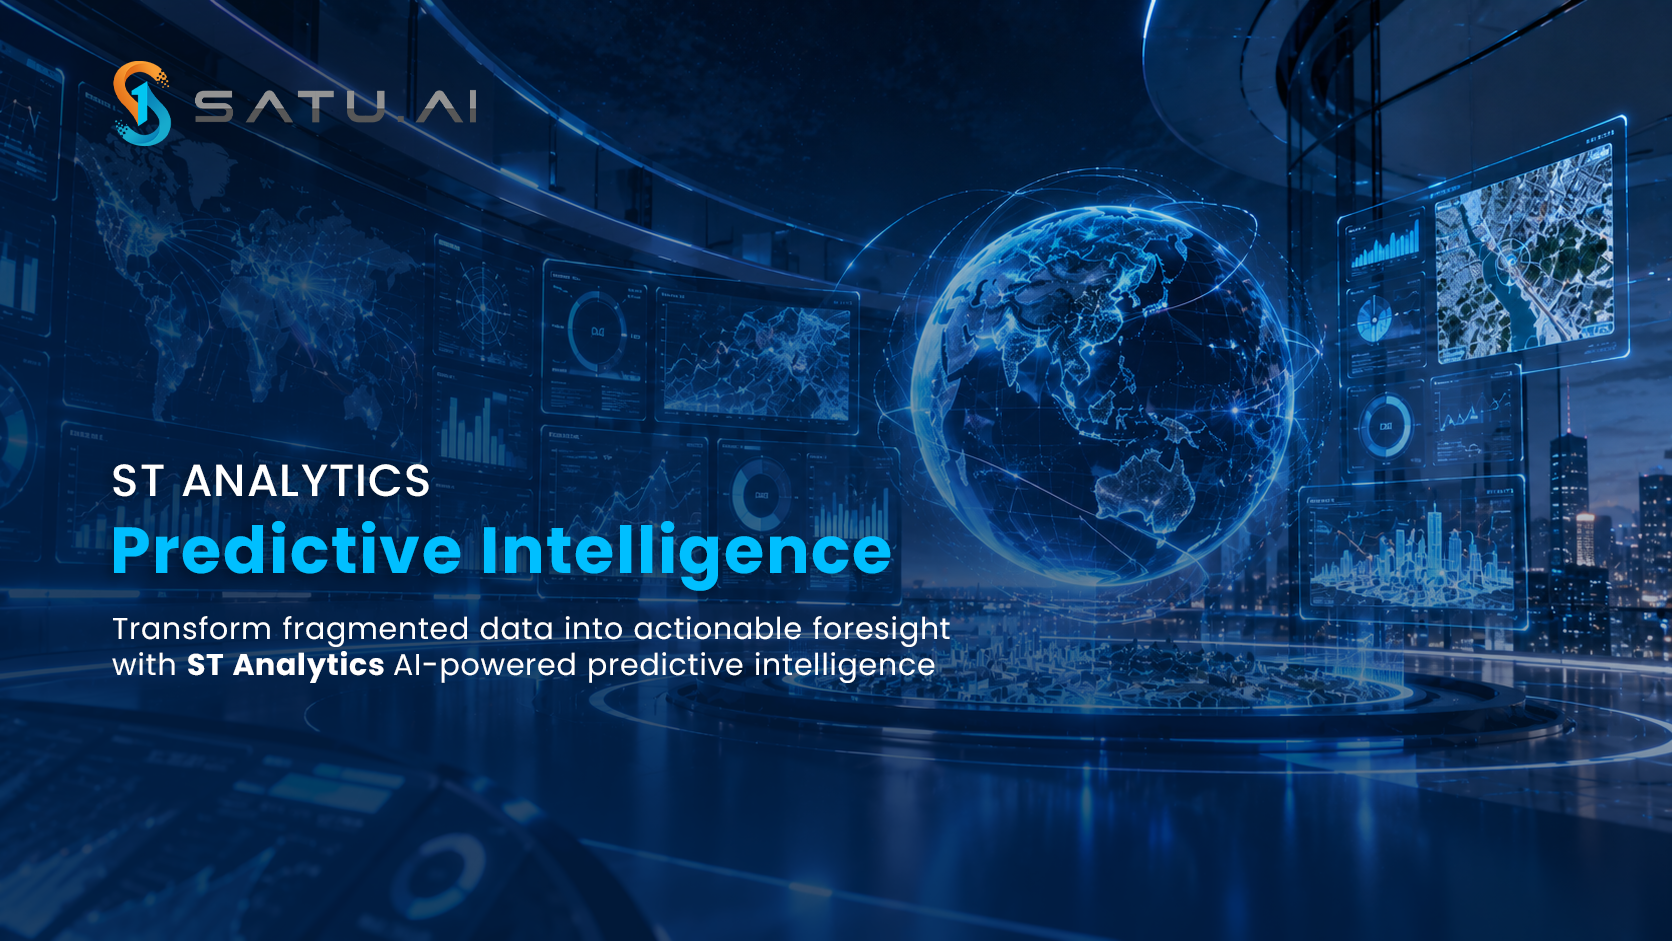
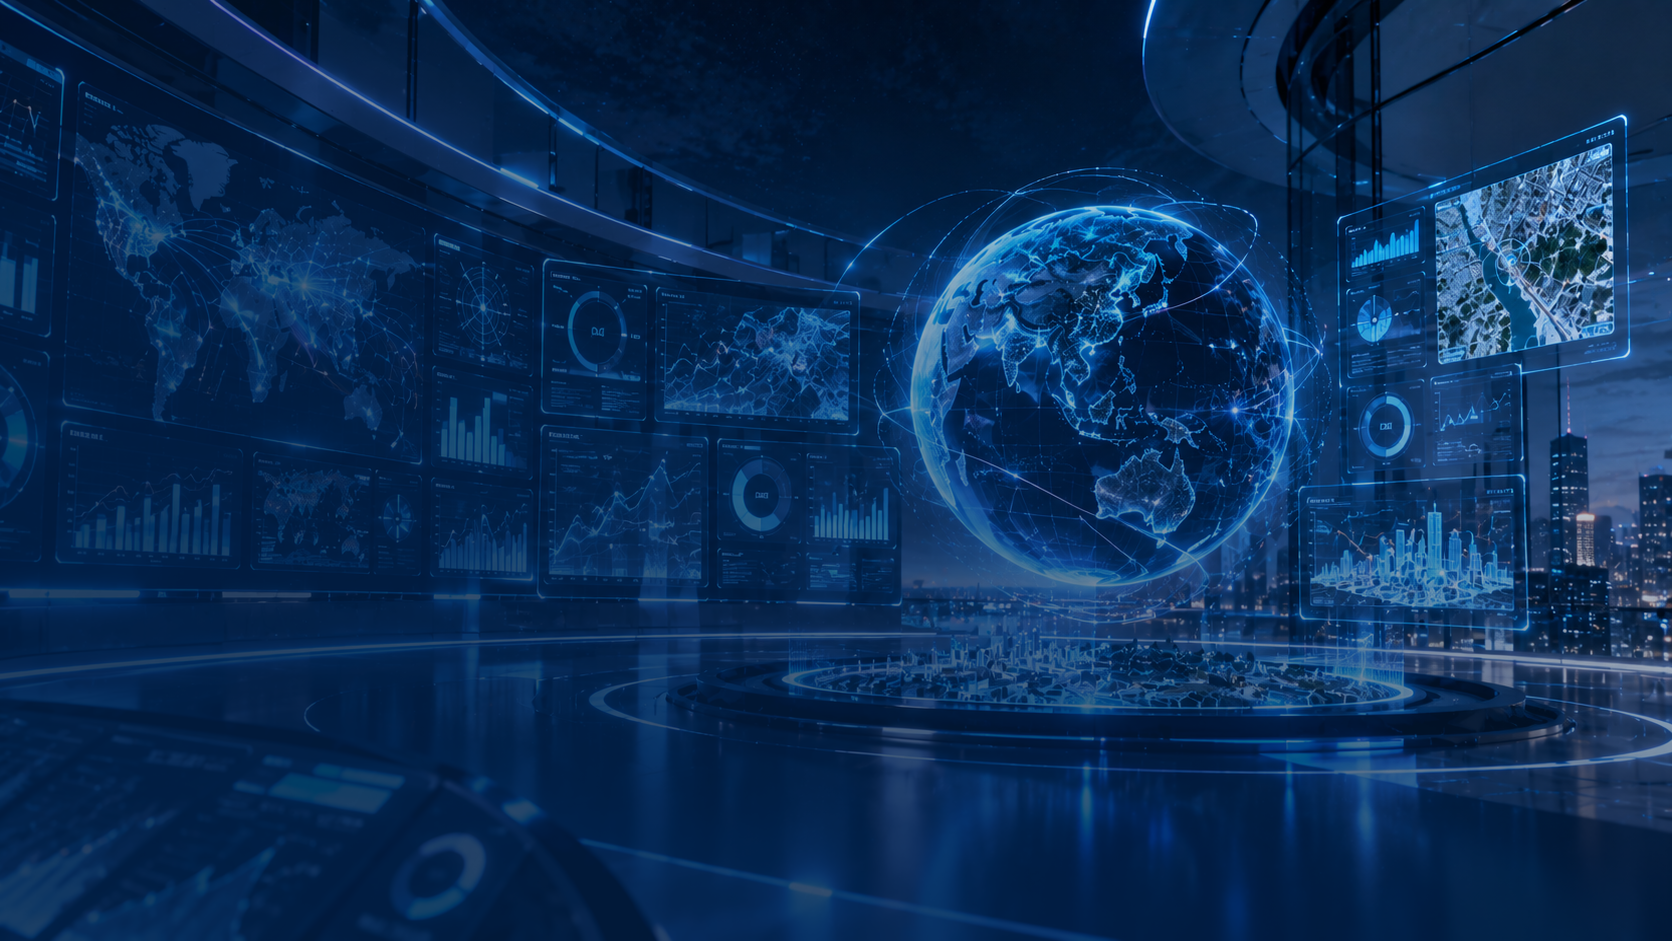
Hero v2: plain client images + responsive CMS text; fix prism first-slide visibility
Hero:
- Swap the baked-text hero images for the client's plain (text-free)
  backgrounds, so images can crop freely on any viewport.
- Headline/eyebrow/description now live in hero_slides (new eyebrow +
  deskripsi columns) and render as a flowing left column (eyebrow →
  headline → paragraph → button) — no overlap with the CTA, no clipped
  text, clean on mobile. Wired into anima.js slide controller + admin
  Hero editor (per-slide eyebrow/headline/description fields).

Prism (Home cubic Solutions):
- The caption group faded in only at scroll p>0.40, but slide 0
  (Modernize Infrastructure) peaked at p~0.34-0.42, so it was nearly
  invisible and appeared to start at Cybersecurity. Move the caption
  gate earlier (p>0.30) and align the assemble window so Modernize is
  fully visible and holds before advancing.

Migration: database/migration_hero_v2.sql (adds columns + 9 slides).
Hero block removed from migration_home_client_images.sql (superseded).

Claude-Session: https://claude.ai/code/session_01NvipGABRoDf3dBPB4Xo28Q

diff --git a/themes/anima/assets/css/anima.css b/themes/anima/assets/css/anima.css
@@ -505,13 +505,18 @@ body{background:#fff}
 /* Main panel: dominant left slide with ONE clean diagonal on its right edge. */
 .tk-cur{position:absolute;left:0;top:0;bottom:0;width:70.5%;border-radius:30px 30px 0 30px;overflow:hidden;clip-path:polygon(0 0,100% 0,91% 100%,0 100%);box-shadow:0 26px 60px rgba(30,80,170,.12);z-index:1}
 .tk-cur .tk-bg{position:absolute;inset:0;background-size:cover;background-position:center;transition:opacity .72s cubic-bezier(.16,1,.3,1),transform .82s cubic-bezier(.16,1,.3,1)}
-.tk-ov{position:absolute;inset:0;background:linear-gradient(115deg,rgba(26,86,190,.62),rgba(20,60,150,.4) 55%,rgba(40,110,220,.30))}
-.tk-h1{position:absolute;left:46px;bottom:118px;z-index:3;color:#fff;font-weight:800;line-height:1.02;margin:0;font-size:clamp(30px,3.6vw,52px);max-width:58%;letter-spacing:-.01em;transition:opacity .35s}
-.tk-eyebrow{display:none}
-/* Hero images ship with baked-in text: collapse empty overlay/below headings so no blank gap shows. */
+.tk-ov{position:absolute;inset:0;background:linear-gradient(90deg,rgba(6,22,52,.80) 0%,rgba(8,26,60,.56) 30%,rgba(12,40,92,.24) 58%,rgba(20,60,140,.06) 100%)}
+/* Hero copy: one flowing left column (eyebrow → headline → paragraph → button)
+   so text never overlaps the button and never gets clipped by the frame. */
+.tk-copy{position:absolute;left:clamp(24px,4vw,52px);right:11%;bottom:clamp(28px,5vh,52px);z-index:3;display:flex;flex-direction:column;align-items:flex-start;gap:13px;max-width:min(600px,62%)}
+.tk-eyebrow{display:block;margin:0;color:#dfeaff;font-weight:600;font-size:clamp(11px,1vw,14px);letter-spacing:.16em;text-transform:uppercase;opacity:.96;text-shadow:0 1px 8px rgba(6,20,50,.55)}
+.tk-eyebrow[hidden]{display:none}
+.tk-h1{margin:0;color:#fff;font-weight:800;line-height:1.05;font-size:clamp(26px,3.3vw,48px);letter-spacing:-.01em;text-shadow:0 2px 16px rgba(6,20,50,.5);transition:opacity .35s}
 .tk-h1:empty,.tk-h1[hidden]{display:none}
+.tk-desc{margin:0;color:#eaf1ff;font-size:clamp(13px,1.1vw,16.5px);line-height:1.5;max-width:42ch;opacity:.94;text-shadow:0 1px 10px rgba(6,20,50,.5)}
+.tk-desc:empty,.tk-desc[hidden]{display:none}
 .tk-below-l .tk-sub:has(#tkSub:empty),.tk-below-l .tk-sub .blue:empty{display:none}
-.tk-foot{position:absolute;left:46px;bottom:44px;z-index:3;display:flex;align-items:center;gap:26px}
+.tk-foot{margin-top:6px;display:flex;align-items:center;gap:24px;flex-wrap:wrap}
 .tk-btn{background:#2f7be0;color:#fff;padding:13px 24px;border-radius:30px;font-weight:600;font-size:15px;display:inline-flex;align-items:center;gap:9px;box-shadow:0 10px 26px rgba(47,123,224,.32);transition:.2s}
 .tk-btn:hover{background:#1b63c7;transform:translateY(-2px)}
 .tk-btn svg{width:16px;height:16px;stroke:#fff;fill:none;stroke-width:2}
@@ -532,7 +537,9 @@ body{background:#fff}
 .tk-arrow:hover{border-color:#2478e0;background:#fff}.tk-arrow svg{width:18px;height:18px;stroke:#6e7f98;stroke-width:2.2;fill:none;stroke-linecap:round;stroke-linejoin:round;transition:stroke .2s}.tk-arrow:hover svg{stroke:#2478e0}
 
 .tk-below{display:grid;grid-template-columns:1.25fr 1fr;gap:44px;margin-top:26px;align-items:start}.tk-sub{font-size:clamp(30px,3.7vw,54px);font-weight:800;color:#2f7be0;margin:0;line-height:1;letter-spacing:-.01em}.tk-below-l p{margin-top:16px;color:#5a6a82;font-size:15.5px;line-height:1.7;max-width:560px}.tk-below-l p b{color:#1e2b45}.tk-disc-h{color:#2f7be0;font-weight:700;font-size:16px;margin-bottom:12px}.tk-disc-grid{display:grid;grid-template-columns:1fr 1fr;gap:0 44px}.tk-disc-grid a{display:flex;justify-content:space-between;align-items:center;gap:10px;padding:12px 2px;border-bottom:1.5px solid #e6edf7;color:#1e2b45;font-size:14px;font-weight:500;transition:.2s}.tk-disc-grid a:hover{color:#2f7be0;padding-left:4px}.tk-disc-grid a i{color:#2f7be0;font-style:normal;font-weight:700}
-@media(max-width:900px){.tk-below{grid-template-columns:1fr}.tk-next{display:none}.tk-cur{width:100%;clip-path:none}.tk-arrows{left:auto;right:20px;width:140px;height:92px;border-radius:22px 22px 0 0}.tk-arrow{width:46px;height:48px}}
+@media(max-width:900px){.tk-below{grid-template-columns:1fr}.tk-next{display:none}.tk-cur{width:100%;clip-path:none;border-radius:26px}.tk-arrows{left:auto;right:20px;width:140px;height:92px;border-radius:22px 22px 0 0}.tk-arrow{width:46px;height:48px}
+  .tk-stage{height:auto;min-height:60vh}.tk-copy{right:6%;max-width:none;left:22px;bottom:24px;gap:11px}}
+@media(max-width:560px){.tk-stage{min-height:64vh}.tk-copy{left:18px;right:5%;bottom:20px}.tk-desc{max-width:none}.tk-foot{gap:16px}}
 
 /* ===== testi light head overrides ===== */
 .testi-head h2{color:var(--ink)}

diff --git a/themes/anima/assets/js/anima.js b/themes/anima/assets/js/anima.js
@@ -212,7 +212,7 @@ let sp=0;
 function frame(){
   const r=prism.getBoundingClientRect();const total=prism.offsetHeight-innerHeight;
   const p=clamp(-r.top/total);
-  const shrink=clamp(p/0.42), assemble=clamp((p-0.34)/0.60);
+  const shrink=clamp(p/0.42), assemble=clamp((p-0.30)/0.62);
   const t=performance.now()*0.001;const idle=Math.sin(t*0.5)*0.03;
   hint.style.opacity=(1-clamp(p/0.05)).toFixed(2);
 
@@ -234,8 +234,8 @@ function frame(){
     g.rotation.y=front.rotation.y*0.9;g.rotation.x=front.rotation.x;g.scale.setScalar(1);});
 
   // captions
-  const capA=clamp((p-0.40)/0.05);
-  caps.forEach((c,i)=>{const d=(1-Math.min(1,Math.abs(phase-i)/0.55))*capA;c.style.opacity=clamp(d).toFixed(2);
+  const capA=clamp((p-0.30)/0.05);
+  caps.forEach((c,i)=>{const d=(1-Math.min(1,Math.abs(phase-i)/0.60))*capA;c.style.opacity=clamp(d).toFixed(2);
     c.style.transform=`translateY(${(1-clamp(d))*14}px)`;});
   const active=Math.round(phase);
   dots.forEach((d,i)=>d.classList.toggle('on',i===active&&capA>0.5));
@@ -303,6 +303,9 @@ requestAnimationFrame(frame);
    {bg:'',h:'Data-driven',sub:'Intelligence'}
   ];})();
   var curBg=document.getElementById('tkCurBg'),nextBg=document.getElementById('tkNextBg'),h1=document.getElementById('tkH1'),sub=document.getElementById('tkSub'),dotsEl=document.getElementById('tkDots');
+  var eye=document.getElementById('tkEye'),desc=document.getElementById('tkDesc');
+  function setTxt(el,t){if(!el)return;t=t||'';el.textContent=t;if(el.hasAttribute('hidden'))el.removeAttribute('hidden');el.style.display=t?'':'none';}
+  function copyFade(o){[eye,h1,desc].forEach(function(x){if(x)x.style.transition='opacity .35s';if(x)x.style.opacity=o;});}
   if(!curBg||!nextBg)return;
   var i=0,N=S.length,timer,busy=false;
   S.forEach(function(s,k){var d=document.createElement('i');if(k===0)d.className='on';d.onclick=function(){go(k,k>i?'next':'prev');};dotsEl.appendChild(d);});
@@ -331,13 +334,13 @@ requestAnimationFrame(frame);
     nextBg.style.transition='opacity .48s cubic-bezier(.16,1,.3,1),transform .72s cubic-bezier(.16,1,.3,1)';
     curBg.style.opacity='0';curBg.style.transform='translateX('+outX+'%) scale(1.012)';
     nextBg.style.opacity='0.42';nextBg.style.transform='translateX('+(-outX)+'%) scale(1.012)';
-    h1.style.opacity='0';
+    copyFade('0');
     setTimeout(function(){
-      i=n;setMedia(curBg,S[i]);setMedia(nextBg,S[(i+1)%N]);h1.textContent=S[i].h;sub.textContent=S[i].sub;
+      i=n;setMedia(curBg,S[i]);setMedia(nextBg,S[(i+1)%N]);setTxt(eye,S[i].eye);setTxt(h1,S[i].h);setTxt(desc,S[i].desc);if(sub)sub.textContent=S[i].sub||'';
       curBg.style.transition='none';nextBg.style.transition='none';curBg.style.transform='translateX('+inX+'%) scale(1.012)';nextBg.style.transform='translateX('+(-inX)+'%) scale(1.012)';
       void curBg.offsetWidth;
       curBg.style.transition='opacity .72s cubic-bezier(.16,1,.3,1),transform .82s cubic-bezier(.16,1,.3,1)';nextBg.style.transition='opacity .72s cubic-bezier(.16,1,.3,1),transform .82s cubic-bezier(.16,1,.3,1)';
-      curBg.style.opacity='1';nextBg.style.opacity='1';curBg.style.transform='translateX(0) scale(1)';nextBg.style.transform='translateX(0) scale(1)';h1.style.opacity='1';
+      curBg.style.opacity='1';nextBg.style.opacity='1';curBg.style.transform='translateX(0) scale(1)';nextBg.style.transform='translateX(0) scale(1)';copyFade('1');
       dots.forEach(function(d,k){d.classList.toggle('on',k===i);});busy=false;
     },480);
   }

diff --git a/admin/views/pengaturan/index.php b/admin/views/pengaturan/index.php
@@ -106,12 +106,16 @@ if ($_SERVER['REQUEST_METHOD'] === 'POST') {
     if ($a === 'hero') {
         $slide_judul = $_POST['slide_judul'] ?? [];
         $slide_sub   = $_POST['slide_sub'] ?? [];
+        $slide_eyebrow = $_POST['slide_eyebrow'] ?? [];
+        $slide_desc  = $_POST['slide_desc'] ?? [];
         $slide_ids   = $_POST['slide_id'] ?? [];
         // Clear and re-insert
         foreach ($slide_judul as $si => $sj) {
-            if (!trim($sj)) continue;
+            if (!trim($sj) && !trim($slide_eyebrow[$si] ?? '')) continue;
             $sid = (int)($slide_ids[$si] ?? 0);
-            $sdata = ['judul'=>trim($sj),'subtitle'=>trim($slide_sub[$si]??''),'urutan'=>$si,'is_active'=>1];
+            $sdata = ['judul'=>trim($sj),'subtitle'=>trim($slide_sub[$si]??''),
+                      'eyebrow'=>trim($slide_eyebrow[$si]??''),'deskripsi'=>trim($slide_desc[$si]??''),
+                      'urutan'=>$si,'is_active'=>1];
             // Upload slide image
             if (!empty($_FILES['slide_gambar']['name'][$si])) {
                 $sfdata = ['name'=>$_FILES['slide_gambar']['name'][$si],'type'=>$_FILES['slide_gambar']['type'][$si],
@@ -360,10 +364,13 @@ function s($key, $default='') { return htmlspecialchars(get_setting($key, $defau
             <?php foreach ($slides as $si => $slide): ?>
             <div class="slide-item" style="background:var(--surface2);border:1px solid var(--border);border-radius:10px;padding:14px;margin-bottom:10px">
                 <input type="hidden" name="slide_id[]" value="<?= $slide['id'] ?>">
-                <div class="form-group"><label>Judul Slide <?= $si+1 ?></label>
-                    <input type="text" name="slide_judul[]" class="form-control" value="<?= htmlspecialchars($slide['judul']) ?>"></div>
-                <div class="form-group"><label>Sub-judul</label>
-                    <input type="text" name="slide_sub[]" class="form-control" value="<?= htmlspecialchars($slide['subtitle'] ?? '') ?>"></div>
+                <div class="form-group"><label>Eyebrow / Label kecil <?= $si+1 ?></label>
+                    <input type="text" name="slide_eyebrow[]" class="form-control" value="<?= htmlspecialchars($slide['eyebrow'] ?? '') ?>" placeholder="mis. ST ANALYTICS"></div>
+                <div class="form-group"><label>Judul (headline besar)</label>
+                    <input type="text" name="slide_judul[]" class="form-control" value="<?= htmlspecialchars($slide['judul']) ?>" placeholder="mis. Predictive Intelligence"></div>
+                <div class="form-group"><label>Deskripsi (paragraf)</label>
+                    <textarea name="slide_desc[]" class="form-control no-wysiwyg" rows="2" placeholder="Kalimat pendukung di bawah judul"><?= htmlspecialchars($slide['deskripsi'] ?? '') ?></textarea></div>
+                <input type="hidden" name="slide_sub[]" value="<?= htmlspecialchars($slide['subtitle'] ?? '') ?>">
                 <div class="form-group mb-8"><label>Gambar</label>
                     <?php if($slide['gambar']): ?><img src="<?= uploads_url($slide['gambar']) ?>" style="height:50px;margin-bottom:8px;border-radius:6px"><br><?php endif; ?>
                     <input type="file" name="slide_gambar[<?= $si ?>]" class="form-control" accept="image/*"></div>
@@ -718,8 +725,10 @@ function addSlide() {
     div.className = 'slide-item';
     div.style.cssText = 'background:var(--surface2);border:1px solid var(--border);border-radius:10px;padding:14px;margin-bottom:10px';
     div.innerHTML = `<input type="hidden" name="slide_id[]" value="">
-        <div class="form-group"><label>Judul Slide ${n}</label><input type="text" name="slide_judul[]" class="form-control"></div>
-        <div class="form-group"><label>Sub-judul</label><input type="text" name="slide_sub[]" class="form-control"></div>
+        <div class="form-group"><label>Eyebrow / Label kecil ${n}</label><input type="text" name="slide_eyebrow[]" class="form-control" placeholder="mis. ST ANALYTICS"></div>
+        <div class="form-group"><label>Judul (headline besar)</label><input type="text" name="slide_judul[]" class="form-control" placeholder="mis. Predictive Intelligence"></div>
+        <div class="form-group"><label>Deskripsi (paragraf)</label><textarea name="slide_desc[]" class="form-control no-wysiwyg" rows="2"></textarea></div>
+        <input type="hidden" name="slide_sub[]" value="">
         <div class="form-group mb-8"><label>Gambar</label><input type="file" name="slide_gambar[${n-1}]" class="form-control" accept="image/*"></div>
         <button type="button" onclick="this.closest('.slide-item').remove()" class="btn btn-xs btn-danger">× Hapus</button>`;
     document.getElementById('slides-list').appendChild(div);

diff --git a/themes/anima/templates/pages/home.php b/themes/anima/templates/pages/home.php
@@ -65,11 +65,13 @@ foreach ($hero_rows as $hs) {
     $hero_json[] = [
         'bg'    => !empty($hs['gambar']) ? uploads_url($hs['gambar']) : '',
         'video' => $vid !== '' ? (preg_match('#^https?:#', $vid) ? $vid : uploads_url($vid)) : '',
+        'eye'   => (string)($hs['eyebrow'] ?? ''),
         'h'     => (string)($hs['judul'] ?? ''),
+        'desc'  => (string)($hs['deskripsi'] ?? ''),
         'sub'   => (string)($hs['subtitle'] ?? ''),
     ];
 }
-$h0 = $hero_json[0] ?? ['bg' => '', 'h' => 'Growing The Global', 'sub' => 'Technology Industry'];
+$h0 = $hero_json[0] ?? ['bg' => '', 'eye' => '', 'h' => 'Growing The Global', 'desc' => '', 'sub' => 'Technology Industry'];
 
 // §14.2 — data-driven animations. Cube (Solutions prism) & orbit (Our Industries)
 // cards are editable + media-capable; config is injected CSP-safely via data-* attrs
@@ -129,11 +131,14 @@ include theme_path('templates/layouts/header.php');
       <div class="tk-cur" id="tkCur">
         <div class="tk-bg" id="tkCurBg"></div>
         <div class="tk-ov"></div>
-        <div class="tk-eyebrow" id="tkEye"<?= trim($h0['sub']) === '' ? ' hidden' : '' ?>><?= htmlspecialchars($h0['sub']) ?></div>
-        <h1 class="tk-h1" id="tkH1"<?= trim($h0['h']) === '' ? ' hidden' : '' ?>><?= htmlspecialchars($h0['h']) ?></h1>
-        <div class="tk-foot">
-          <a class="tk-btn" href="#contact">Get in Touch <svg viewBox="0 0 24 24"><path d="M5 12h14M13 6l6 6-6 6"/></svg></a>
-          <div class="tk-dots" id="tkDots"></div>
+        <div class="tk-copy">
+          <div class="tk-eyebrow" id="tkEye"<?= trim((string)($h0['eye'] ?? '')) === '' ? ' hidden' : '' ?>><?= htmlspecialchars((string)($h0['eye'] ?? '')) ?></div>
+          <h1 class="tk-h1" id="tkH1"<?= trim((string)($h0['h'] ?? '')) === '' ? ' hidden' : '' ?>><?= htmlspecialchars((string)($h0['h'] ?? '')) ?></h1>
+          <p class="tk-desc" id="tkDesc"<?= trim((string)($h0['desc'] ?? '')) === '' ? ' hidden' : '' ?>><?= htmlspecialchars((string)($h0['desc'] ?? '')) ?></p>
+          <div class="tk-foot">
+            <a class="tk-btn" href="#contact">Get in Touch <svg viewBox="0 0 24 24"><path d="M5 12h14M13 6l6 6-6 6"/></svg></a>
+            <div class="tk-dots" id="tkDots"></div>
+          </div>
         </div>
       </div>
       <div class="tk-next" id="tkNext">
